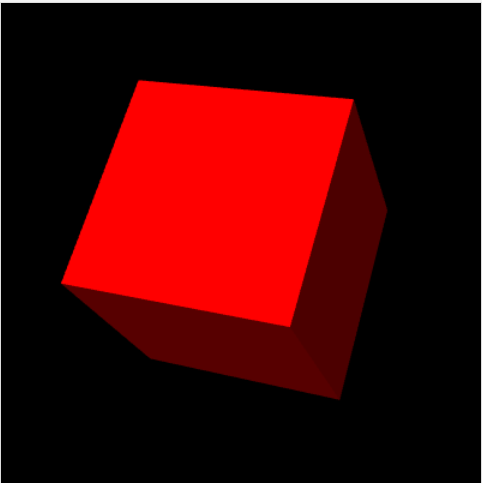
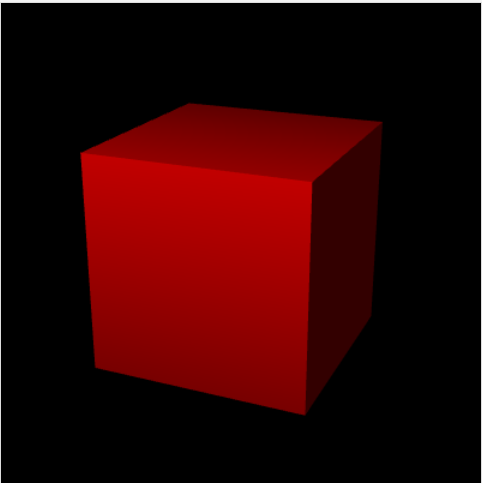
更新第八章的PointLightedSphere示例，新增逐片元计算颜色的路由配置，并优化PointLightedCube的模型矩阵和透视投影设置，删除不再使用的片元着色器文件。

diff --git a/src/views/ch08/PointLightedSphere_perFragment/index.vue b/src/views/ch08/PointLightedSphere_perFragment/index.vue
@@ -1,6 +1,6 @@
 <script setup lang="ts">
 import { onMounted } from 'vue'
-import { Matrix4, Vector3 } from '@/lib/cuon-matrix'
+import { Matrix4 } from '@/lib/cuon-matrix'
 import { shaderProgramUtils } from '@/utils/shader-program-utils'
 // @ts-expect-error 忽略类型错误
 import FSHADER_SOURCE from './f-shader.glsl'
@@ -19,7 +19,7 @@ function main() {
     console.error('未找到 canvas 元素')
     return
   }
-  const gl = initWebglContext(canvas)
+  const gl = initWebglContext()
   if (!gl) {
     console.error('Failed to initialize WebGL context')
     return
@@ -169,10 +169,13 @@ function initArrayBuffer(
 <template>
   <div class="demo-container">
     <div class="demo-header">
-      <h2>点光源</h2>
-      <p>核心是计算点光源到</p>
-      <p>👉主要学习如何计算运动后物体的法向量</p>
-      <p><strong>规则:</strong>用法向量乘以模型矩阵的逆转置矩阵。就可以求得变换后的法向量。</p>
+      <h2>点光源照射下的球体(逐片元计算颜色)</h2>
+      <p>
+        逐片元的计算是通过将顶点着色器中顶点和法向量以varying变量的形式传入片元着色器，在片元着色器中计算颜色，这样片元着色器中就包含了顶点着色器中的所有计算
+        <br>
+        在片元着色器中计算颜色，这样片元着色器中的同名变量就已经是内插后的逐片元值了。
+      </p>
+      <p>跟前一个例子对比，可以观察到明暗分界更自然了</p>
     </div>
     <div class="canvas-container">
       <canvas id="webgl" width="400" height="400" />

diff --git a/src/views/ch08/PointLightedCube/index.vue b/src/views/ch08/PointLightedCube/index.vue
@@ -33,7 +33,15 @@ function main() {
   // ✅新增：设置模型矩阵，用于对立方体进行变换
   const modelMatrix = new Matrix4()
   // 再绕X轴旋转90度
-  modelMatrix.setRotate(90, 1, 0, 0)
+  modelMatrix.setRotate(90, 0, 1, 0)
+
+  // 获取并传入模型矩阵到着色器
+  const u_ModelMatrix = gl.getUniformLocation(gl.program, 'u_ModelMatrix')
+  if (!u_ModelMatrix) {
+    console.error('Failed to get the storage location of u_ModelMatrix')
+    return
+  }
+  // gl.uniformMatrix4fv(u_ModelMatrix, false, modelMatrix.elements)
   // 设置mvp矩阵
   const u_mvpMatrix = gl.getUniformLocation(gl.program, 'u_mvpMatrix')
   if (!u_mvpMatrix) {
@@ -41,7 +49,9 @@ function main() {
     return
   }
   const mvpMatrix = new Matrix4()
-  mvpMatrix.setPerspective(30, 1, 1, 100)
+  // 修改：使用画布宽高比，避免变形
+  const canvas = gl.canvas as HTMLCanvasElement
+  mvpMatrix.setPerspective(30, canvas.width / canvas.height, 1, 100)
   mvpMatrix.lookAt(6, 6, 14, 0, 0, 0, 0, 1, 0)
   // 将模型矩阵与mvp矩阵相乘
   mvpMatrix.multiply(modelMatrix)

diff --git a/src/views/ch08/PointLightedSphere/index.vue b/src/views/ch08/PointLightedSphere/index.vue
@@ -173,10 +173,12 @@ function initArrayBuffer(
 <template>
   <div class="demo-container">
     <div class="demo-header">
-      <h2>点光源</h2>
-      <p>核心是计算点光源到</p>
-      <p>👉主要学习如何计算运动后物体的法向量</p>
-      <p><strong>规则:</strong>用法向量乘以模型矩阵的逆转置矩阵。就可以求得变换后的法向量。</p>
+      <h2>逐顶点计算颜色</h2>
+      <p>
+        可以观察到明暗分界不自然，这是因为片元颜色是根据顶点颜色内插出来的,
+        <br>
+        为了更逼真的效果，我们应该对表面的每个点计算颜色（逐片元）
+      </p>
     </div>
     <div class="canvas-container">
       <canvas id="webgl" width="400" height="400" />

diff --git a/src/router/index.ts b/src/router/index.ts
@@ -177,7 +177,12 @@ export const routes = [
   {
     path: '/ch08/PointLightedSphere',
     component: () => import('@/views/ch08/PointLightedSphere/index.vue'),
-    meta: { description: '点光源照射下的球体' },
+    meta: { description: '点光源照射下的球体（逐顶点计算颜色）' },
+  },
+  {
+    path: '/ch08/PointLightedSphere_perFragment',
+    component: () => import('@/views/ch08/PointLightedSphere_perFragment/index.vue'),
+    meta: { description: '点光源照射下的球体(逐片元计算颜色)' },
   },
 ]
 
